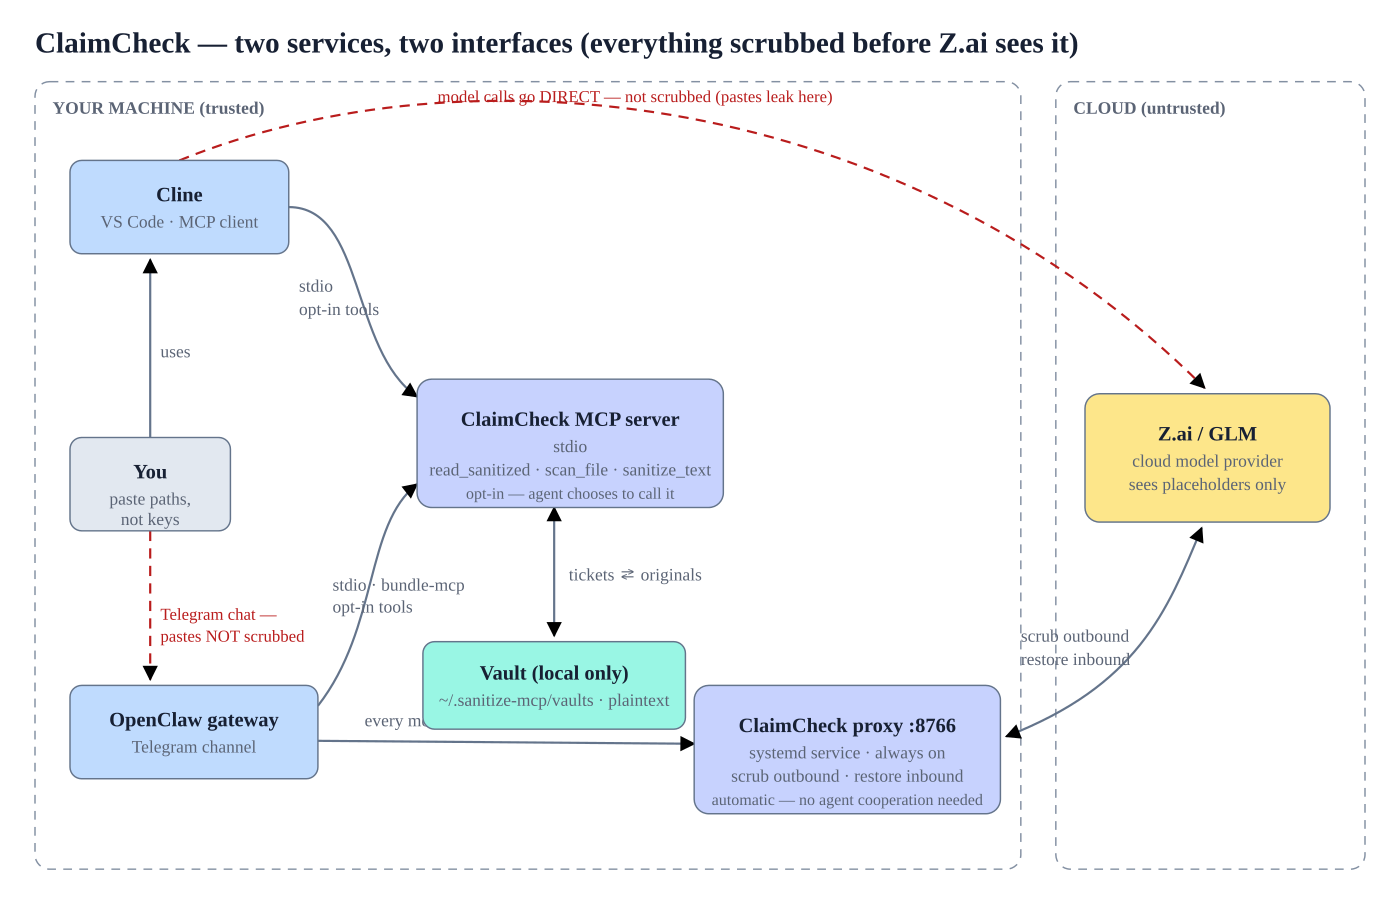
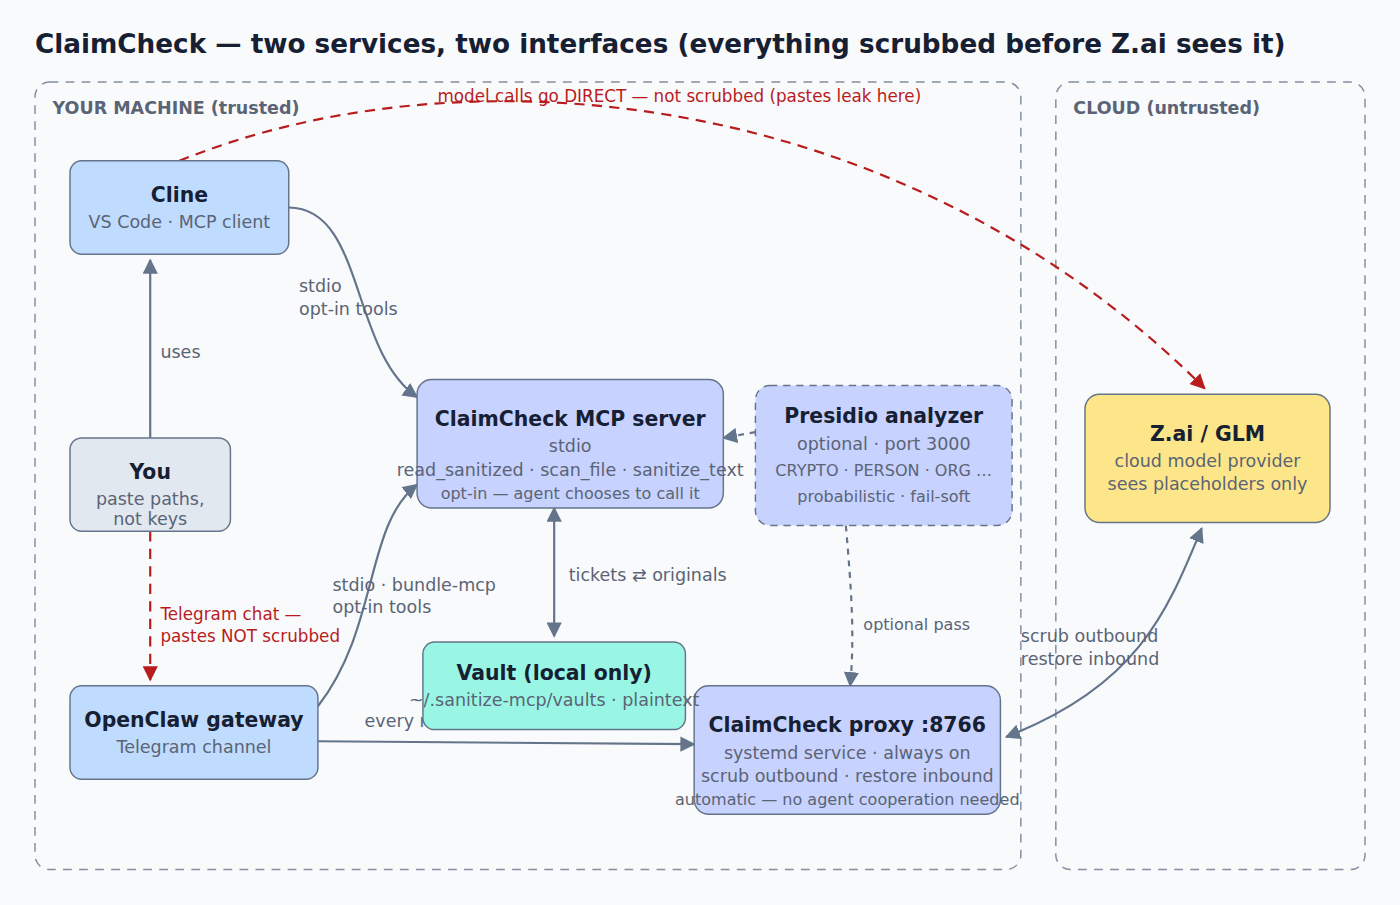
Presidio: setup docs (docs/PRESIDIO.md) + analyzer sidecar in architecture diagram

diff --git a/docs/architecture.html b/docs/architecture.html
@@ -40,7 +40,7 @@
   }
   main { max-width: 1020px; margin: 32px auto; padding: 0 20px; }
   svg { width: 100%; height: auto; display: block; }
-  .title { font-size: 20px; font-weight: 650; fill: var(--fg); }
+  .title { font-size: 18px; font-weight: 650; fill: var(--fg); }
   .label { font-size: 14px; font-weight: 600; fill: var(--fg); }
   .small { font-size: 12px; fill: var(--muted); }
   .tiny { font-size: 11px; fill: var(--muted); }
@@ -51,6 +51,8 @@
   .storage { fill: var(--storage); }
   .external { fill: var(--external); }
   .edge { stroke: var(--line); stroke-width: 1.5; fill: none; }
+  .edge-opt { stroke-dasharray: 4 4; }
+  .node-optional { stroke-dasharray: 5 4; }
   .edge-risk { stroke: var(--riskline); stroke-width: 1.5; fill: none; stroke-dasharray: 7 5; }
   .zone { fill: none; stroke: var(--line); stroke-width: 1; stroke-dasharray: 6 5; opacity: 0.8; }
   .zonelabel { font-size: 12px; font-weight: 600; fill: var(--muted); }
@@ -58,7 +60,7 @@
   .edgelabel-risk { font-size: 11.5px; fill: var(--riskline); }
 </style>
 <main>
-<svg viewBox="0 0 960 620" xmlns="http://www.w3.org/2000/svg" role="img" aria-label="ClaimCheck architecture: MCP server and proxy with Cline and OpenClaw interfaces">
+<svg viewBox="0 0 960 620" xmlns="http://www.w3.org/2000/svg" role="img" aria-label="ClaimCheck architecture: MCP server and proxy with Cline and OpenClaw interfaces, plus optional Presidio analyzer sidecar">
   <defs>
     <marker id="arr" viewBox="0 0 10 10" refX="9" refY="5" markerWidth="7" markerHeight="7" orient="auto-start-reverse">
       <path d="M0,0 L10,5 L0,10 z" fill="var(--line)"/>
@@ -93,6 +95,9 @@
   <path class="edge" d="M218,508 L476,510" marker-end="url(#arr)"/>
   <!-- Proxy <-> Z.ai (scrub out, restore in) -->
   <path class="edge" d="M690,505 C780,470 800,420 824,362" marker-start="url(#arr)" marker-end="url(#arr)"/>
+  <!-- Presidio -> MCP server + proxy (optional detection pass, dashed) -->
+  <path class="edge edge-opt" d="M518,296 L496,300" marker-end="url(#arr)"/>
+  <path class="edge edge-opt" d="M580,360 C584,406 586,436 583,470" marker-end="url(#arr)"/>
 
   <!-- edge labels -->
   <text class="small" x="110" y="245">uses</text>
@@ -107,6 +112,7 @@
   <text class="small" x="250" y="498">every model call — automatic</text>
   <text class="small" x="700" y="440">scrub outbound</text>
   <text class="small" x="700" y="456">restore inbound</text>
+  <text class="tiny" x="592" y="432">optional pass</text>
 
   <!-- nodes -->
   <g>
@@ -143,6 +149,13 @@
     <rect class="node storage" x="290" y="440" width="180" height="60" rx="8"/>
     <text class="label" x="380" y="466" text-anchor="middle">Vault (local only)</text>
     <text class="small" x="380" y="484" text-anchor="middle">~/.sanitize-mcp/vaults · plaintext</text>
+  </g>
+  <g>
+    <rect class="node process node-optional" x="518" y="264" width="176" height="96" rx="10"/>
+    <text class="label" x="606" y="290" text-anchor="middle">Presidio analyzer</text>
+    <text class="small" x="606" y="308" text-anchor="middle">optional · port 3000</text>
+    <text class="tiny" x="606" y="326" text-anchor="middle">CRYPTO · PERSON · ORG …</text>
+    <text class="tiny" x="606" y="344" text-anchor="middle">probabilistic · fail-soft</text>
   </g>
   <g>
     <rect class="node external" x="744" y="270" width="168" height="88" rx="10"/>

diff --git a/docs/PRESIDIO.md b/docs/PRESIDIO.md
@@ -1,0 +1,104 @@
+# Presidio detection backend (optional sidecar)
+
+ClaimCheck's built-in recognizers are deterministic — regex + validators, no ML,
+no downloads. For free-text entity detection beyond that (person/org/location
+names, crypto wallets, international ID formats), ClaimCheck can call a local
+[Microsoft Presidio](https://microsoft.github.io/presidio/) **analyzer** as an
+optional detection sidecar. Nothing about ClaimCheck's guarantees changes:
+Presidio findings mint through the same vault, get the same stable
+placeholders, and restore exactly like built-in tickets.
+
+Why have both? [docs/COMPARISON.md](COMPARISON.md) — the four-problems framing.
+
+## When to enable it
+
+- You're scrubbing **prose** (letters, chat transcripts, tickets), not just
+  config files and logs — names and places matter there.
+- You need entity types the deterministic tiers don't cover: `CRYPTO` wallet
+  addresses, `PERSON`/`LOCATION`/`ORGANIZATION` via Presidio's NLP models,
+  country-specific ID formats.
+- You're okay running one extra local container.
+
+If you only scrub `.env` files, connection strings, and source code — **skip
+it**. The built-in tiers already cover those deterministically.
+
+## Quick start (Docker)
+
+Run the analyzer container:
+
+```bash
+docker run -d --name presidio-analyzer -p 127.0.0.1:3000:3000 \
+  mcr.microsoft.com/presidio-analyzer:latest
+```
+
+The first request after start is slow — the container loads its NLP models
+then (hundreds of MB of RAM; give it a couple of minutes). Verify it's up:
+
+```bash
+curl -s http://127.0.0.1:3000/analyze \
+  -H 'Content-Type: application/json' \
+  -d '{"text":"wire 0x71C7656EC7ab88b098defB751B7401B5f6d8976F to the vendor","language":"en","score_threshold":0.4}'
+```
+
+Point ClaimCheck at it — set the env var on the **ClaimCheck process**
+(proxy systemd unit, tray environment, or plain shell):
+
+```bash
+export SANITIZE_PRESIDIO_URL=http://127.0.0.1:3000
+```
+
+That's the whole integration. The proxy fires a fire-and-forget **warm-up**
+request at startup so the container's model load happens before your first
+real request, not during it.
+
+## Tunables
+
+| Env var | Default | Meaning |
+|---|---|---|
+| `SANITIZE_PRESIDIO_URL` | unset | Analyzer base URL (`/analyze` appended automatically). Unset = feature off. |
+| `SANITIZE_PRESIDIO_SCORE` | `0.4` | Minimum confidence (0–1]. Raise to cut false positives, lower to catch more. |
+| `SANITIZE_PRESIDIO_ENTITIES` | unset | Comma-separated allowlist, e.g. `CRYPTO,PERSON,LOCATION`. Overrides the default exclusions. |
+| `SANITIZE_PRESIDIO_MAX_CHARS` | `50000` | Payloads above this size skip the Presidio pass — regex tiers always run in full. |
+
+## Semantics — what Presidio does and doesn't change
+
+- **Tier-separated.** Findings land in the *probabilistic* tier: labeled by
+  entity type (`[CRYPTO_1]`, `[PERSON_2]`), masked through the vault, fully
+  restorable — but never part of the validator-backed guarantee tier the
+  deterministic recognizers provide.
+- **Runs last.** The pass runs after the deterministic tiers, on the
+  already-masked text — built-in hits are never double-masked.
+- **Fail-soft.** Analyzer down, slow, or malformed → the pass is skipped and
+  the request completes normally. Consecutive-failure count shows in
+  `ClaimCheck status`.
+- **Size-capped.** Above `SANITIZE_PRESIDIO_MAX_CHARS` the pass is skipped
+  (huge Cline contexts were the latency report that motivated the cap); regex
+  tiers still run at full strength.
+
+## Default exclusions (learned the hard way)
+
+Without an explicit allowlist, these Presidio entity types are dropped — each
+earned its exclusion with real false positives:
+
+- **`DATE_TIME`, `TIME`** — flag benign prose ("May and June are good months")
+  at 0.85 confidence.
+- **`URL`** (v0.8.5+) — fragments code identifiers: `sendmail` →
+  `[URL_3]ndmail`, `SMTP` → `[URL_5]TP`. Real cred-bearing URLs are already
+  covered by ClaimCheck's own URL-credentials row.
+
+Set `SANITIZE_PRESIDIO_ENTITIES` to re-enable any of them deliberately.
+
+Per-span fail-soft too: a Presidio span that crosses a newline is skipped
+(structured payloads — numbered lists, code, tables — produce garbage
+multiline spans), and spans containing an existing placeholder are skipped.
+
+## Verify it's working
+
+```bash
+ClaimCheck status          # Presidio section: enabled/disabled, failure counter
+python3 test_presidio.py   # stub-analyzer regression suite (crypto masking,
+                           # DATE_TIME exclusion, tier separation, fail-soft)
+```
+
+Live probe: sanitize a line containing a crypto wallet address — it should
+come back as `[CRYPTO_1]`, and `restore` should bring it home from the vault.

diff --git a/README.md b/README.md
@@ -225,7 +225,8 @@ Presidio findings are tier-separated — probabilistic, labeled by entity type, 
 through the same vault with stable placeholders and restore — and the pass is skipped
 fail-soft when the service is down. Tune with `SANITIZE_PRESIDIO_SCORE` (default 0.4)
 and `SANITIZE_PRESIDIO_ENTITIES` (comma-separated allowlist; `DATE_TIME`/`TIME` are
-excluded by default — they flag benign prose).
+excluded by default — they flag benign prose). **Container setup, tunables, and the
+tier semantics: [docs/PRESIDIO.md](docs/PRESIDIO.md).**
 
 **Honest limits:** the proxy covers the model-provider hop only — the chat surface
 (Telegram, Discord, ...) still sees whatever was pasted before the proxy could act. And
@@ -362,6 +363,7 @@ self-contained executable.
 - [docs/PROXY.md](docs/PROXY.md) — proxy deployment: provider surfaces, multi-lane fleets, coverage rules, update ordering
 - [docs/PLACEHOLDERS.md](docs/PLACEHOLDERS.md) — placeholder ticket semantics: vault scoping, stability guarantees, why the numbering is opaque
 - [docs/COMPARISON.md](docs/COMPARISON.md) — ClaimCheck vs Presidio: the four-problems framing and the optional Presidio detection backend
+- [docs/PRESIDIO.md](docs/PRESIDIO.md) — optional Presidio sidecar: container quick start, tunables, tier semantics, default exclusions
 
 ## Roadmap
 
@@ -369,6 +371,7 @@ self-contained executable.
 - [x] Fail-closed proxy posture (`SANITIZE_FAIL_CLOSED=0` to disable)
 - [ ] Label-anchored heuristics (names after `Contact:`, `Owner:` …)
 - [x] Local NER tier for free-text names/addresses (`SANITIZE_NER=1`, local ONNX model)
+- [x] Optional Presidio detection sidecar (`SANITIZE_PRESIDIO_URL` — crypto wallets, NER, international formats)
 - [ ] Hashed-identifier columns (peppered HMAC) for database lookups
 - [ ] Pluggable recognizer packs
 - [x] Vault encryption at rest — DPAPI on Windows, AES-GCM password mode everywhere (`SANITIZE_VAULT_PASSWORD`)

diff --git a/llms-install.md b/llms-install.md
@@ -101,7 +101,7 @@ placeholders and restore. Tier-separated (probabilistic — labeled by entity ty
 part of the validator-backed guarantee tier), fail-soft when the service is down. Tune
 with `SANITIZE_PRESIDIO_SCORE` (default 0.4) and `SANITIZE_PRESIDIO_ENTITIES`
 (comma-separated allowlist; `DATE_TIME`/`TIME` are excluded by default — they flag benign
-prose).
+prose). Container quick start and full tunables: `docs/PRESIDIO.md`.
 
 ## Restoring original values (local only)
 
